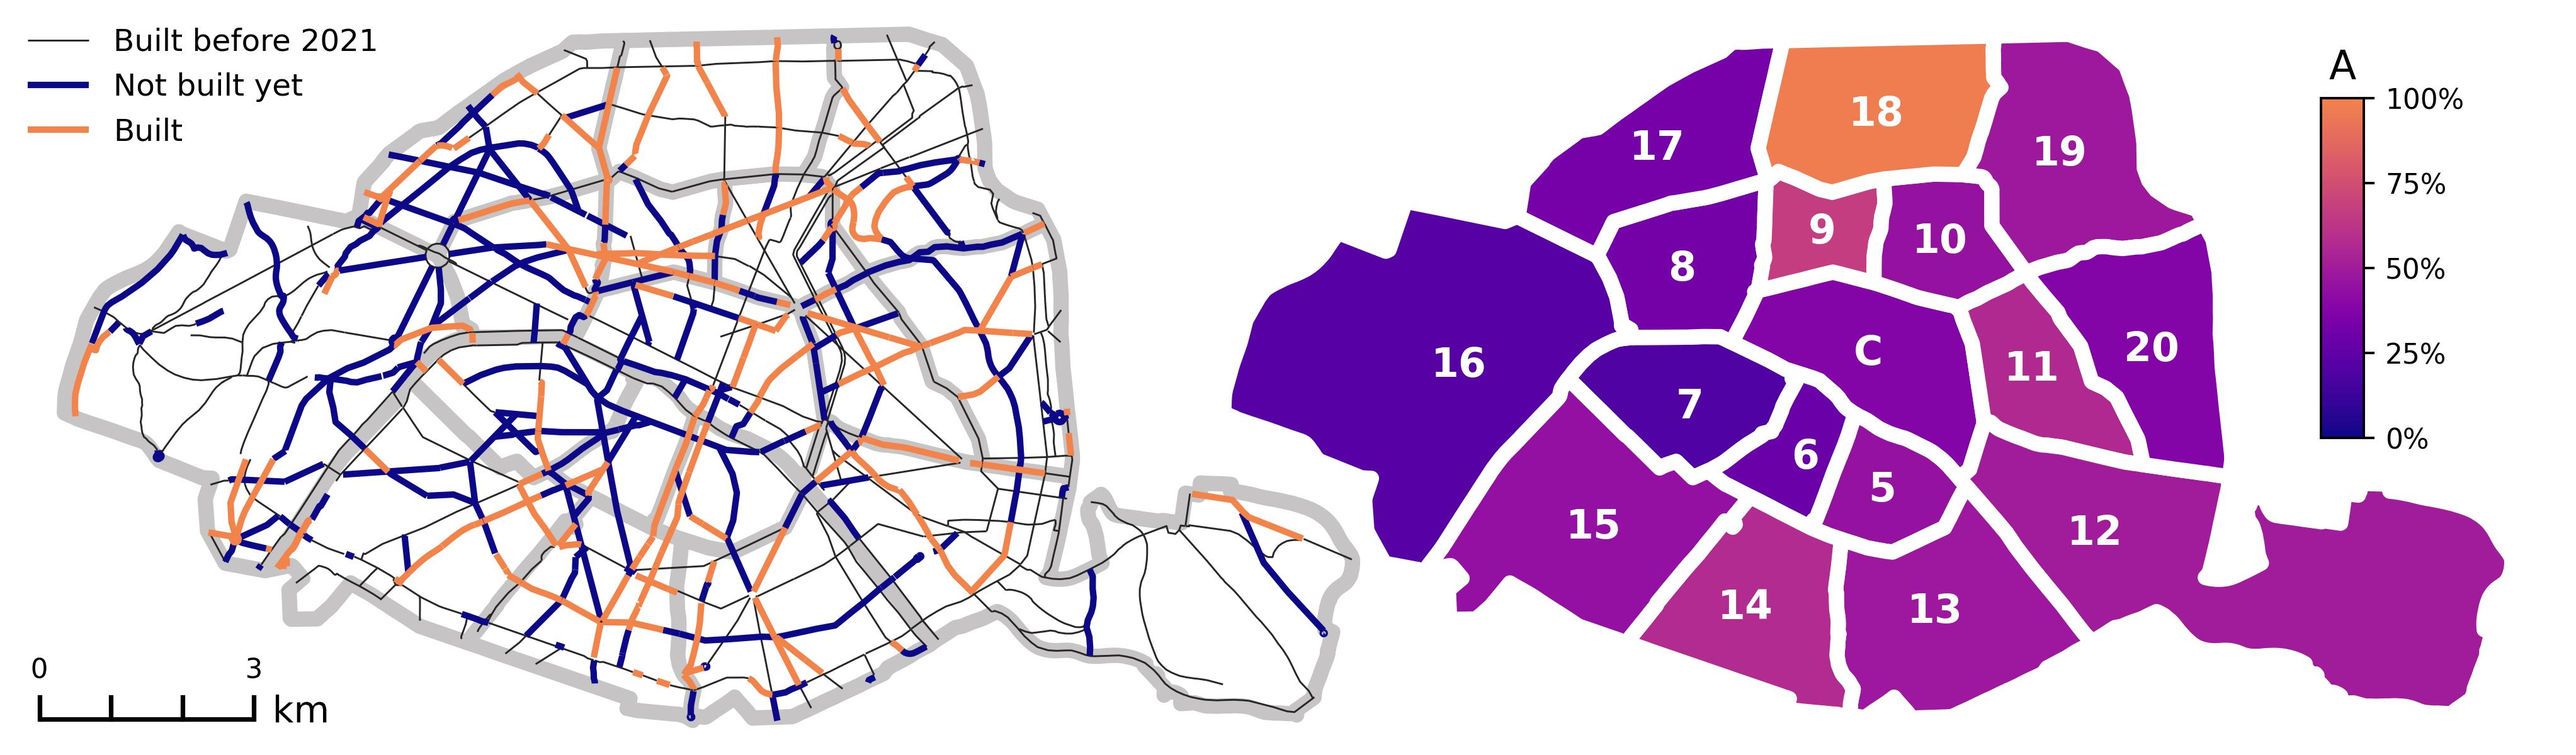
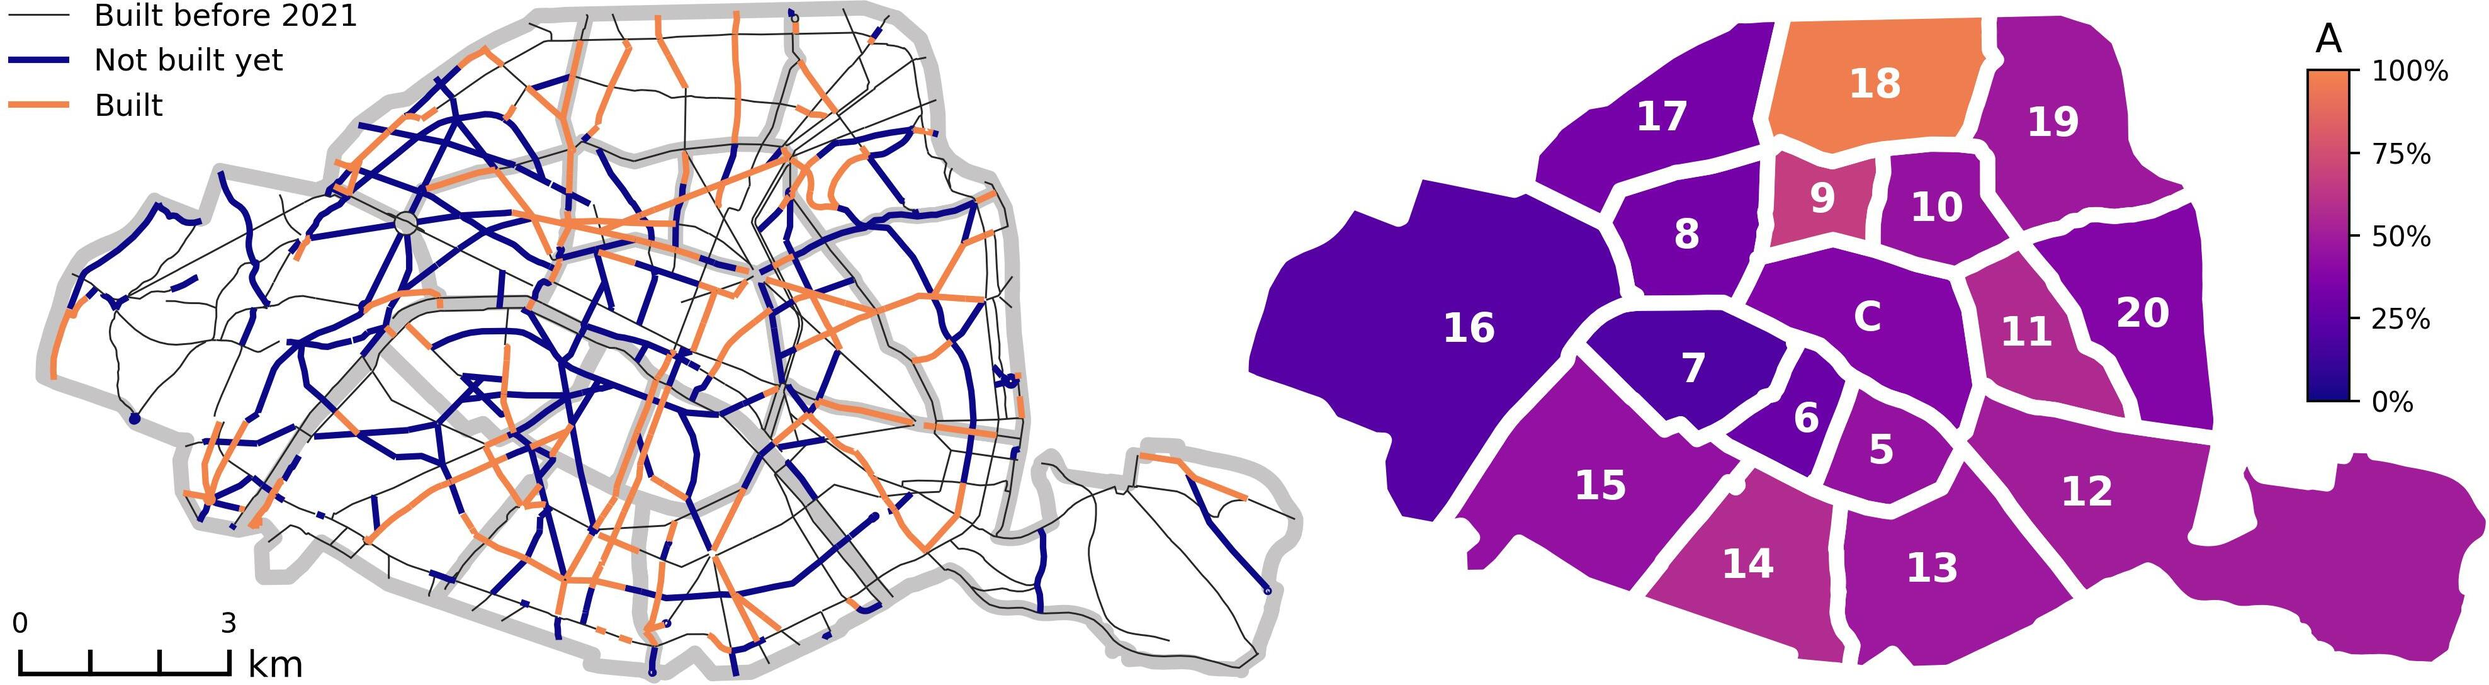
Fix number in scatterplot, increase distance in maps

diff --git a/scripts/E_plot_factor_delays.py b/scripts/E_plot_factor_delays.py
@@ -65,38 +65,6 @@ def main():
                         ha="center",
                         va="center",
                     )
-                # elif gdf_arr["NUM_ARROND"].values[i] == 11:
-                #     axs[0][idx].annotate(
-                #         gdf_arr["NUM_ARROND"].values[i],
-                #         (
-                #             gdf_arr[column].values[i],
-                #             gdf_arr["length_accomplished_share"].values[i],
-                #         ),
-                #         textcoords="offset points",
-                #         xytext=(21, -18),
-                #         arrowprops=dict(arrowstyle="-"),
-                #         fontweight=900,
-                #         fontsize=MAIN_NUMBER_SIZE,
-                #         color="black",
-                #         ha="center",
-                #         va="center",
-                #     )
-                # elif gdf_arr["NUM_ARROND"].values[i] == 19:
-                #     axs[0][idx].annotate(
-                #         gdf_arr["NUM_ARROND"].values[i],
-                #         (
-                #             gdf_arr[column].values[i],
-                #             gdf_arr["length_accomplished_share"].values[i],
-                #         ),
-                #         textcoords="offset points",
-                #         xytext=(-22, 17),
-                #         arrowprops=dict(arrowstyle="-"),
-                #         fontweight=900,
-                #         fontsize=MAIN_NUMBER_SIZE,
-                #         color="black",
-                #         ha="center",
-                #         va="center",
-                #     )
                 else:
                     axs[0][idx].annotate(
                         gdf_arr["NUM_ARROND"].values[i],
@@ -111,7 +79,7 @@ def main():
                         va="center",
                     )
         else:
-            axs[0][idx].set_ylabel("Share of bicycle lanes accomplished $N$")
+            axs[0][idx].set_ylabel("Share of bicycle lanes accomplished $A$")
             for i in range(len(gdf_arr)):
                 if gdf_arr["NUM_ARROND"].values[i] == 1:
                     text = "C"

diff --git a/scripts/D_plot_bikeplan_roads.py b/scripts/D_plot_bikeplan_roads.py
@@ -44,7 +44,7 @@ def main():
     gdf_bikenet["Etat"] = gdf_bikenet["Etat"].map(STATE_MAP)
     gdf_bikenet["color"] = gdf_bikenet["Etat"].map(STATE_COLOR)
     fig = plt.figure(figsize=[11.69, 8.27])
-    ax_f = fig.add_axes((0, 0, 0.55, 1))
+    ax_f = fig.add_axes((0, 0, 0.535, 1))
     for state, color in STATE_COLOR.items():
         if state == "Built before 2021":
             lw = 0.6
@@ -71,7 +71,7 @@ def main():
     )
     ax_f.axis("off")
     # Plot choropleth map
-    ax_s = fig.add_axes((0.45, 0, 0.55, 1))
+    ax_s = fig.add_axes((0.465, 0, 0.535, 1))
     cax = ax_s.inset_axes([0.82, 0.42, 0.03, 0.45])
     kwargs = {
         "vmin": 0,
